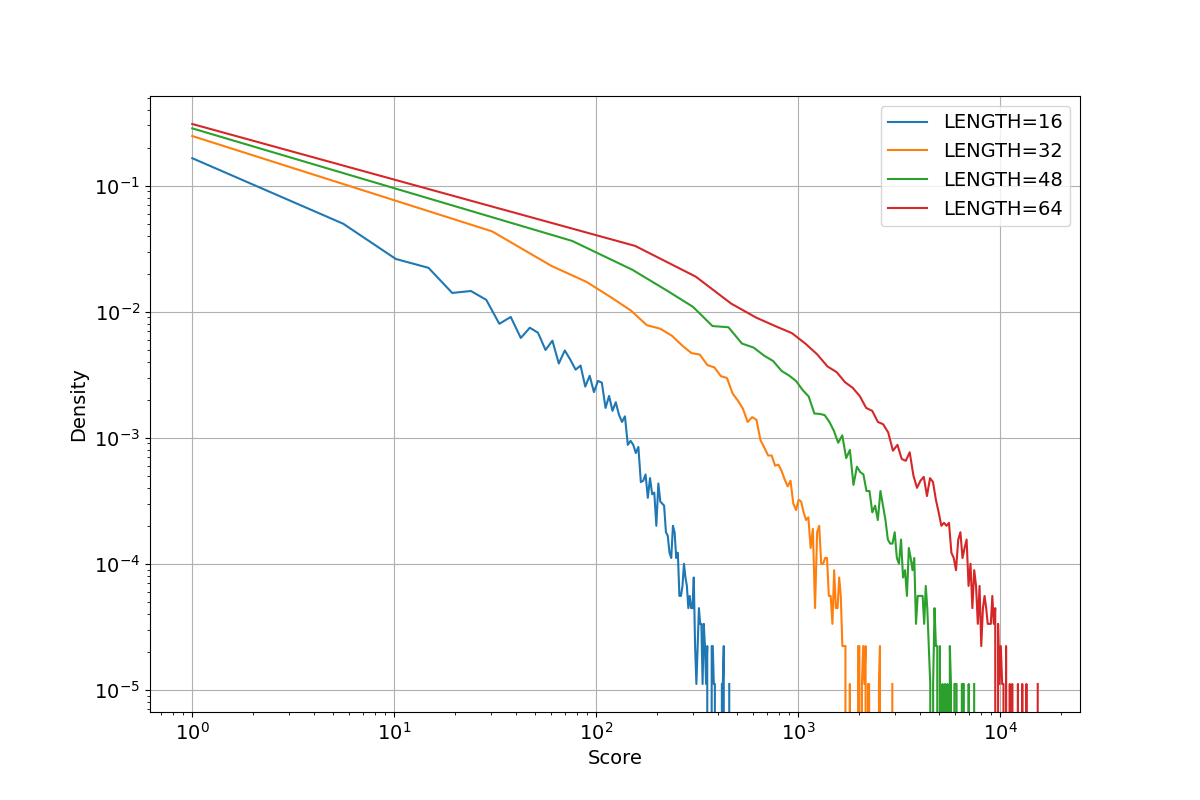
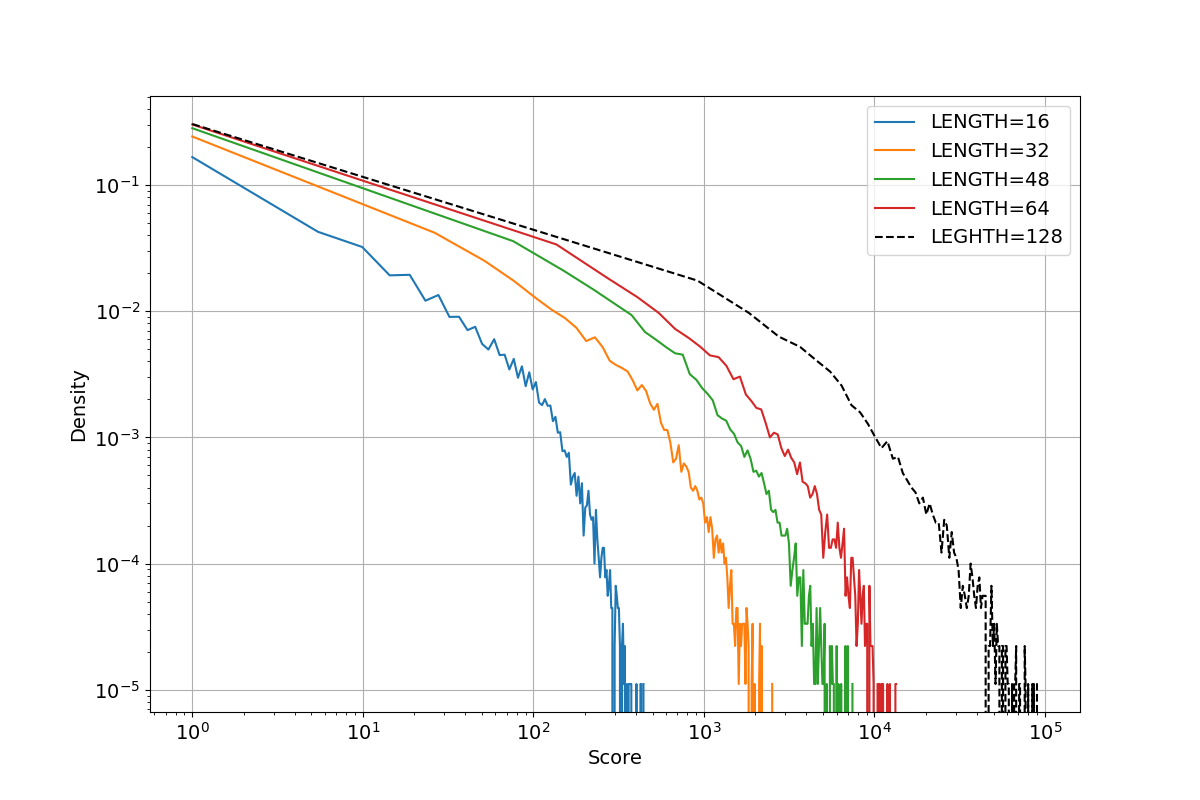
add c++ dune ver

diff --git a/hw1/dune.cpp b/hw1/dune.cpp
@@ -1,0 +1,82 @@
+#include <iostream>
+#include <fstream>
+#include <vector>
+#include <deque>
+#include <cstdlib>
+
+using namespace std;
+
+int n, num;
+
+bool isLegal(const pair<int, int>& pos, const int length) {
+    if (pos.first < 0 || pos.first >= n || pos.second < 0 || pos.second >= n) {
+        return false;
+    }
+    return true;
+}
+
+vector<pair<int, int>> neighbors(const vector<pair<int, int>>& coors, const int length) {
+    vector<pair<int, int>> res;
+    for (auto& pos : coors) {
+        vector<pair<int, int>> res_list = {
+            {pos.first - 1, pos.second}, {pos.first + 1, pos.second},
+            {pos.first, pos.second - 1}, {pos.first, pos.second + 1}
+        };
+        for (auto& i : res_list) {
+            if (isLegal(i, length)) {
+                res.push_back(i);
+            }
+        }
+    }
+    return res;
+}
+
+int depletion(vector<vector<int>>& dune, const pair<int, int>& init_coor) {
+    int length = dune.size();
+    deque<pair<int, int>> coors;
+    coors.push_back(init_coor);
+    int score = 0;
+    while (!coors.empty()) {
+        auto pos = coors.front();
+        coors.pop_front();
+        int row = pos.first, col = pos.second;
+        if (dune[row][col] < 4) {
+            continue;
+        }
+        dune[row][col] -= 4;
+        score++;
+        auto neighbor_coords = neighbors({pos}, length);
+        for (auto& neighbor : neighbor_coords) {
+            int r = neighbor.first, c = neighbor.second;
+            dune[r][c] += 1;
+        }
+        coors.insert(coors.end(), neighbor_coords.begin(), neighbor_coords.end());
+    }
+    return score;
+}
+
+int iterate(vector<std::vector<int>>& dune) {
+    int length = dune.size();
+    int row = rand() % length;
+    int col = rand() % length;
+    dune[row][col] += 1;
+    return depletion(dune, {row, col});
+}
+
+
+int main() {
+    // srand(time(0));
+    cin >> n >> num;
+    vector<vector<int>> dune(n, vector<int>(n, 0));
+
+    // output file
+    fstream file;
+    file.open("output.txt", ios::out);
+
+    for (int i = 0; i < num; i++) {
+        int score = iterate(dune);
+        file << score << endl;
+    }
+    file.close();
+    return 0;
+}

diff --git a/hw1/dune2.py b/hw1/dune2.py
@@ -3,6 +3,8 @@ import numpy as np
 
 from dune import *
 
+FILEPATH = "hw1/len128.txt"
+
 if __name__ == "__main__":
     length_list = [16, 32, 48, 64]
     scores_list = []
@@ -26,10 +28,18 @@ if __name__ == "__main__":
     for (i, length) in enumerate(length_list):
         scores = scores_list[i][10000:]
         bins = np.logspace(np.log10(1), np.log10(np.max(scores)), 100)
-        hist, bin_edges = np.histogram(scores[scores > 0], bins=bins)
-        # hist, bin_edges = np.histogram(scores[scores > 0], bins=100)
+        # hist, bin_edges = np.histogram(scores[scores > 0], bins=bins)
+        hist, bin_edges = np.histogram(scores[scores > 0], bins=100)
         hist = hist / len(scores)
         plt.plot(bin_edges[:-1], hist, label=f"LENGTH={length}")
+
+    # C++ output added
+    with open(FILEPATH, "r") as f:
+        scores = np.array([int(line.strip()) for line in f.readlines()])
+    scores = scores[10000:]
+    hist, bin_edges = np.histogram(scores[scores > 0], bins=100)
+    hist = hist / len(scores)
+    plt.plot(bin_edges[:-1], hist, label="LEGHTH=128", color='black', linestyle='--')
 
     plt.xlabel('Score')
     plt.ylabel('Density')

diff --git a/hw1/hw1.md b/hw1/hw1.md
@@ -4,6 +4,7 @@
 hw1/
 ├── hw1.md
 ├── dune.py     # 沙丘迭代
+├── dune.cpp    # 沙丘 c++ 版本
 ├── dune1.py    # 沙丘画图 1
 ├── dune2.py    # 沙丘画图 2
 ├── logestic.py # logestic 迭代和画图
